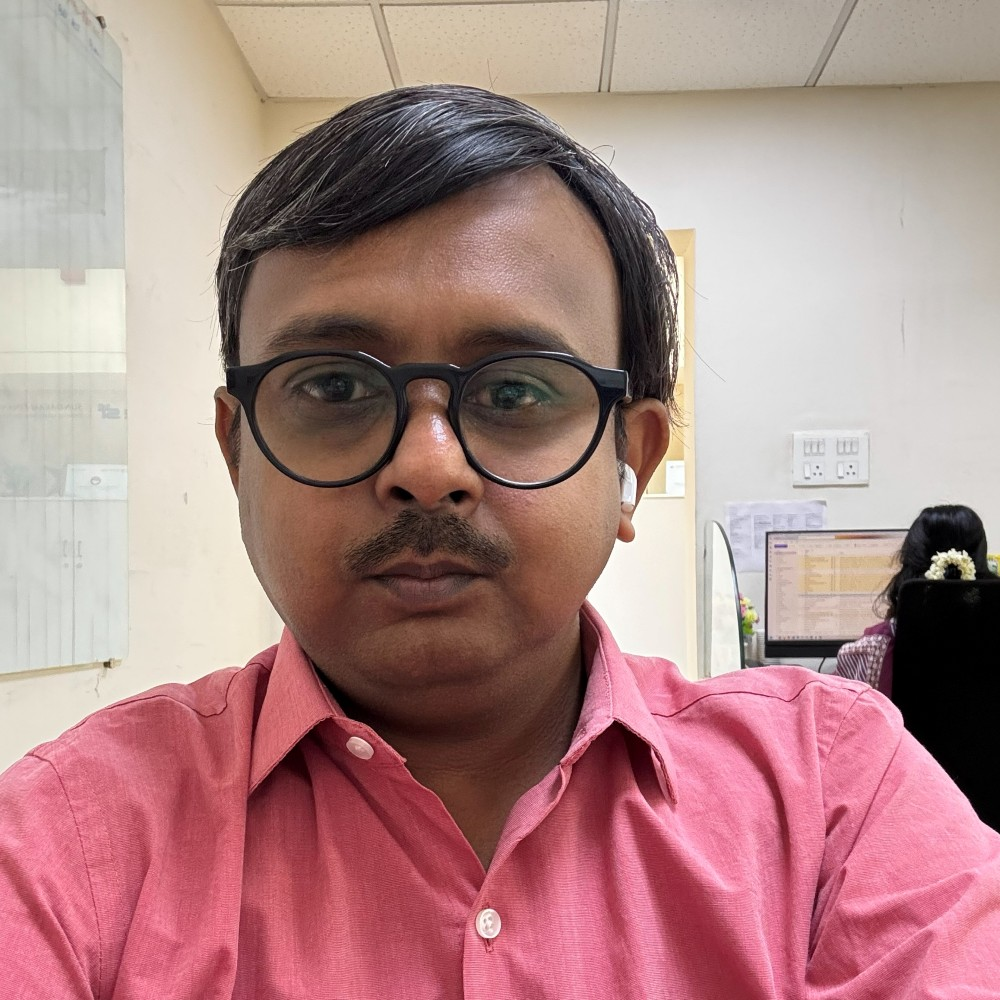
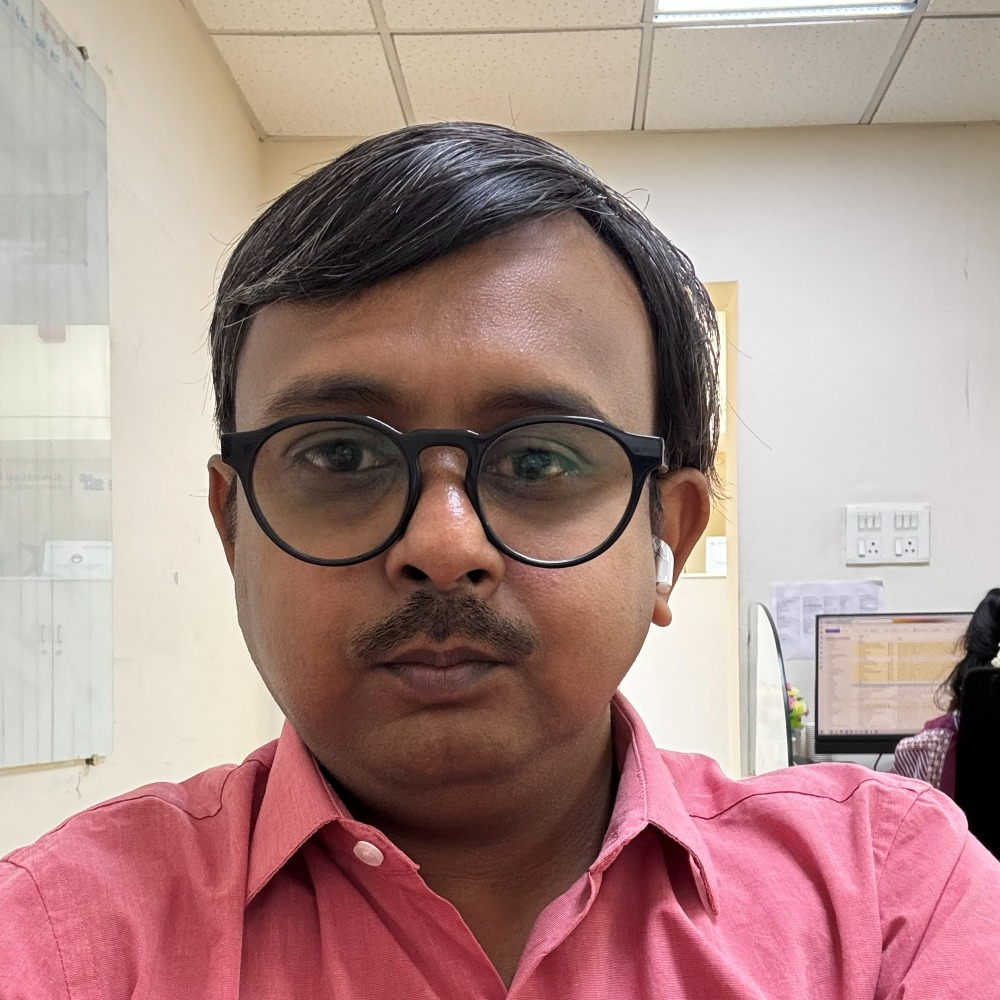
Improve profile photo framing, add Projects section

diff --git a/index.html b/index.html
@@ -22,6 +22,7 @@
       <a href="#about">About</a>
       <a href="#journey">The Next 18 Months</a>
       <a href="#experience">Experience</a>
+      <a href="#projects">Projects</a>
       <a href="#skills">Skills</a>
       <a href="#contact">Contact</a>
     </nav>
@@ -101,6 +102,7 @@
         </div>
         <p class="exp-sub">Sundaram Finance · National Auto Retail Team, Chennai</p>
         <p>Own the enquiry lifecycle across India &mdash; where leads enter, how they move, where they drop &mdash; and what that pattern says about market conditions versus internal execution, largely through Vahan data. Build dashboards for senior management, run productivity analysis for Associates and Field Officers, and travel to branches to check the data against what's actually happening on the ground.</p>
+        <p>Beyond the core brief: consolidating scattered automation scripts into reusable workflows, building dashboards that surface leading indicators instead of lagging ones, and contributing ideas through the company's internal Idea Olympics innovation platform.</p>
         <div class="tag-row">
           <span class="tag">Power BI</span><span class="tag">Power Automate Desktop</span><span class="tag">MySQL</span><span class="tag">Advanced Excel</span>
         </div>
@@ -113,6 +115,7 @@
         </div>
         <p class="exp-sub">Sundaram Finance · Bellary</p>
         <p>Grew the Working Capital product across North Karnataka, a segment built on fleet owners and diesel buyers. Consistently overachieved budgeted targets and introduced <em>Bulk Diesel Finance</em>, the first scheme of its kind in the region &mdash; opening a new customer category for the branch network.</p>
+        <p>A lot of it was relational: building trust with oil company officials, visiting large fleet operators, training branch staff who'd never sold a working capital product before. The lesson that stuck &mdash; the best product design on paper still doesn't move if the people selling it don't understand who it's for.</p>
       </article>
 
       <article class="exp-item">
@@ -121,7 +124,7 @@
           <span class="exp-date">Aug 2015 &ndash; Mar 2022</span>
         </div>
         <p class="exp-sub">Sundaram Finance · Bijapur, Karnataka</p>
-        <p>Managed accounts payable, receivables, NPA tracking, and loan movement monitoring; handled repossession and asset sale coordination and regulatory notices. Promoted from Cashier to Branch Accountant in 2017 &mdash; the scope of the role kept expanding past its own description.</p>
+        <p>Managed accounts payable, receivables, NPA tracking, and loan movement monitoring; handled repossession and asset sale coordination and regulatory notices, and helped customers move to digital repayment modes back when that was still a real behaviour-change challenge. Promoted from Cashier to Branch Accountant in 2017 &mdash; the scope of the role kept expanding past its own description.</p>
       </article>
 
       <article class="exp-item">
@@ -135,8 +138,48 @@
     </div>
   </section>
 
+  <section id="projects" class="section wrap">
+    <h2 class="section-title"><span class="num">04</span> Projects</h2>
+    <p class="section-intro">Tools I've built on my own initiative &mdash; mostly to make sense of Vahan's registration data, plus one unrelated hobby that scratches the same "organise messy data" itch.</p>
+
+    <div class="project-grid">
+      <article class="project-card">
+        <h3>Vahan OEM Scraper</h3>
+        <p class="project-file">vahan_make.py</p>
+        <p>State-wise vehicle registration scraper built on async Playwright with 12-core concurrency, covering Cars, LGPV, and 3W segments across India.</p>
+        <div class="tag-row"><span class="tag">Python</span><span class="tag">Playwright</span></div>
+      </article>
+
+      <article class="project-card">
+        <h3>Market Share PDF Reports</h3>
+        <p class="project-file">ReportLab report generator</p>
+        <p>Turns raw registration data into board-ready A4 reports &mdash; heatmaps, log-scale OEM bar charts, and YoY growth annotations.</p>
+        <div class="tag-row"><span class="tag">Python</span><span class="tag">ReportLab</span></div>
+      </article>
+
+      <article class="project-card">
+        <h3>LinkedIn Content Generator</h3>
+        <p class="project-file">generate_prompt.py</p>
+        <p>Reads the same Vahan dataset and drafts structured LinkedIn posts on market trends, so the analysis doesn't stop at the dashboard.</p>
+        <div class="tag-row"><span class="tag">Python</span></div>
+      </article>
+
+      <article class="project-card">
+        <h3>NIFTY Options Trading Bot</h3>
+        <p>A breakout-strategy algorithmic trading bot on the Groww API, built as a state machine around a 9:15&ndash;9:45 opening-range anchor.</p>
+        <div class="tag-row"><span class="tag">Python</span><span class="tag">Groww API</span></div>
+      </article>
+
+      <article class="project-card project-card-hobby">
+        <h3>Numismatic Tooling</h3>
+        <p>Sticker-sheet and binder layout generators for a 500+ coin world collection, built from Numista export data. Purely for fun &mdash; same instinct for organising messy data, different subject.</p>
+        <div class="tag-row"><span class="tag">Python</span><span class="tag">Hobby</span></div>
+      </article>
+    </div>
+  </section>
+
   <section id="skills" class="section wrap">
-    <h2 class="section-title"><span class="num">04</span> Skills &amp; Education</h2>
+    <h2 class="section-title"><span class="num">05</span> Skills &amp; Education</h2>
 
     <div class="skills-grid">
       <div class="skills-col">
@@ -153,6 +196,8 @@
           <li>Power Automate Desktop</li>
           <li>MySQL</li>
           <li>Python</li>
+          <li>Playwright</li>
+          <li>ReportLab</li>
           <li>Advanced Excel</li>
         </ul>
 
@@ -192,7 +237,7 @@
   </section>
 
   <section id="contact" class="section wrap contact-section">
-    <h2 class="section-title"><span class="num">05</span> Let's talk</h2>
+    <h2 class="section-title"><span class="num">06</span> Let's talk</h2>
     <p class="section-intro">Open to conversations at the intersection of automotive data, NBFC operations, and product thinking in financial services &mdash; and to opportunities in Product Management.</p>
     <div class="cta-row">
       <a class="btn btn-primary" href="mailto:samsm@outlook.in">samsm@outlook.in</a>

diff --git a/assets/style.css b/assets/style.css
@@ -206,11 +206,14 @@ h1 {
 
 .hero-photo img {
   width: 100%;
+  max-width: 340px;
   aspect-ratio: 1/1;
   object-fit: cover;
-  border-radius: 50%;
+  object-position: 50% 30%;
+  border-radius: 28px;
   border: 6px solid var(--card);
   box-shadow: var(--shadow);
+  margin-left: auto;
 }
 
 /* Sections */
@@ -370,6 +373,43 @@ h1 {
   border-radius: 999px;
 }
 
+/* Projects */
+.project-grid {
+  display: grid;
+  grid-template-columns: repeat(2, 1fr);
+  gap: 20px;
+}
+
+.project-card {
+  background: var(--card);
+  border: 1px solid var(--line);
+  border-radius: 16px;
+  padding: 24px 26px;
+}
+
+.project-card h3 {
+  font-family: var(--serif);
+  font-size: 1.08rem;
+  font-weight: 600;
+  margin: 0 0 4px;
+}
+
+.project-file {
+  font-family: 'SFMono-Regular', Consolas, monospace;
+  font-size: 0.78rem;
+  color: var(--accent);
+  margin: 0 0 12px;
+}
+
+.project-card > p:not(.project-file) {
+  color: var(--ink-soft);
+  margin: 0 0 14px;
+}
+
+.project-card-hobby {
+  background: var(--bg-alt);
+}
+
 /* Skills */
 .skills-grid {
   display: grid;
@@ -457,5 +497,6 @@ h1 {
   }
   .hero-photo { width: 180px; margin: 0 0 8px; }
   .skills-grid { grid-template-columns: 1fr; gap: 32px; }
+  .project-grid { grid-template-columns: 1fr; }
   .exp-head { flex-direction: column; gap: 4px; }
 }
